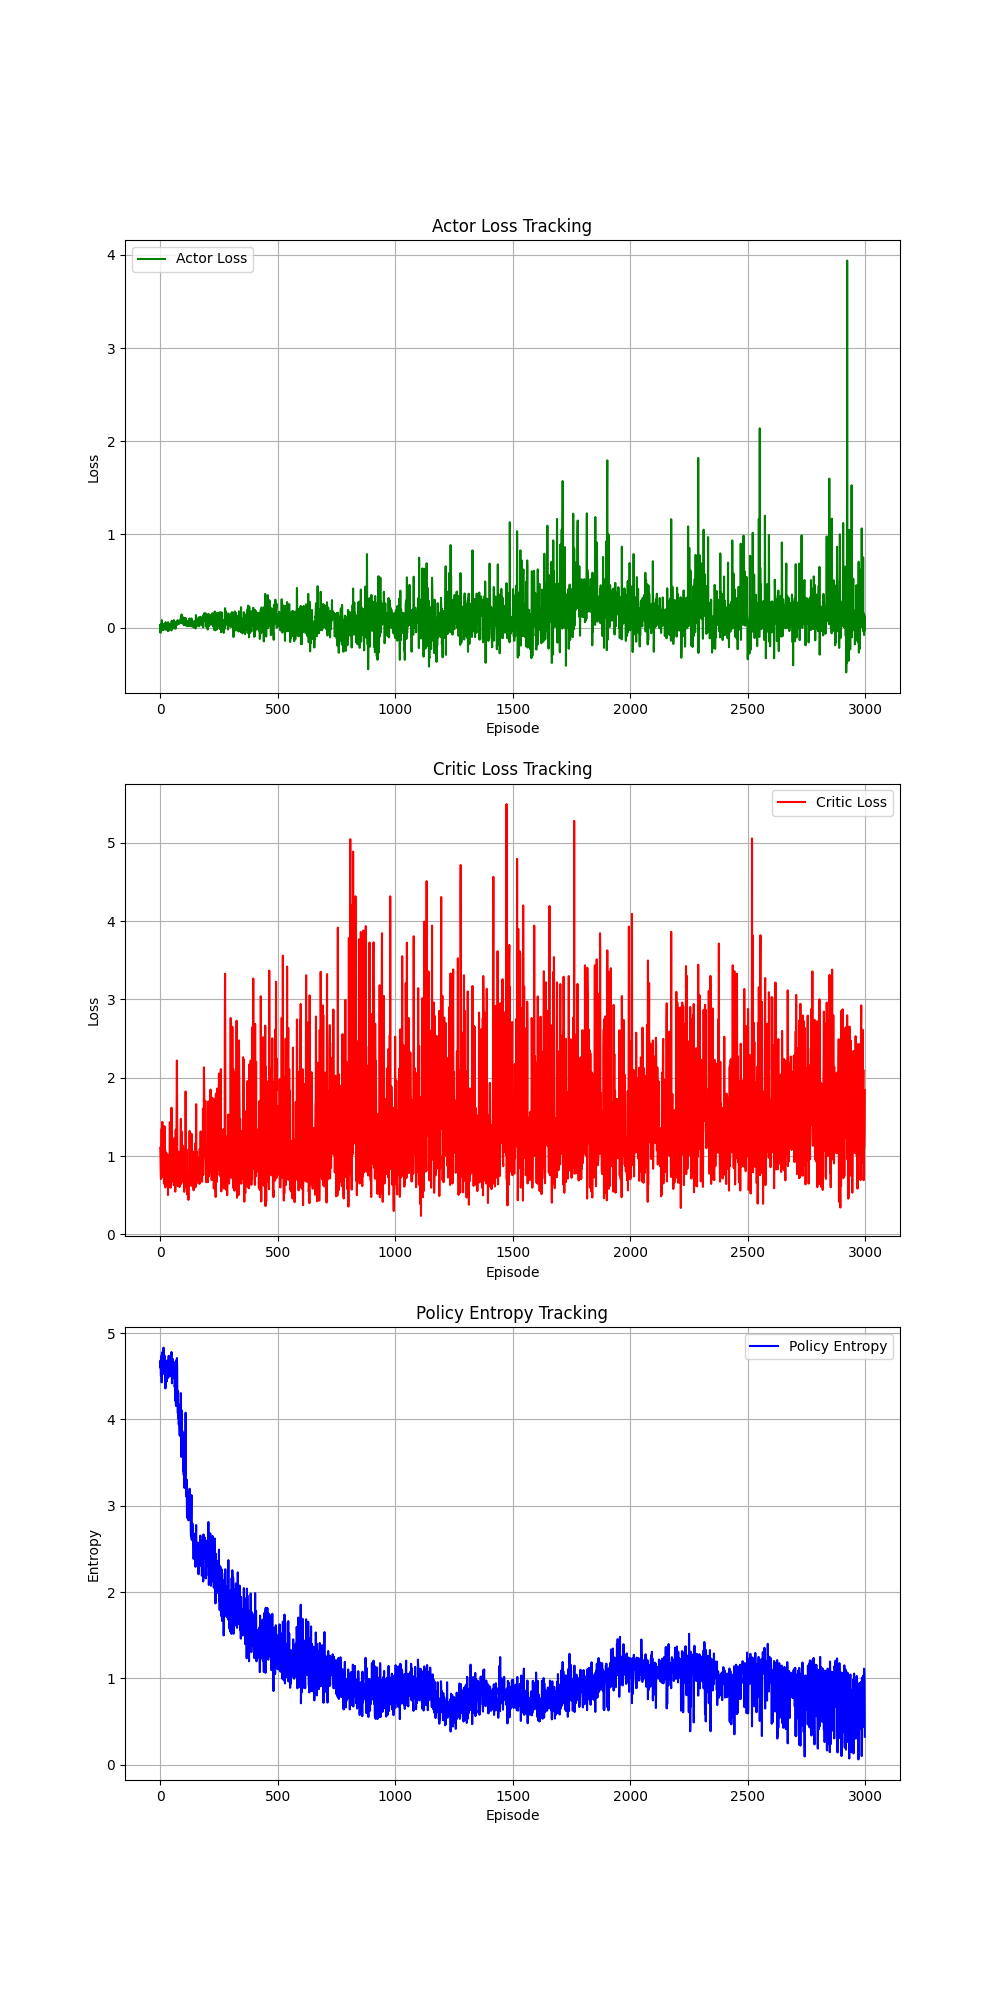
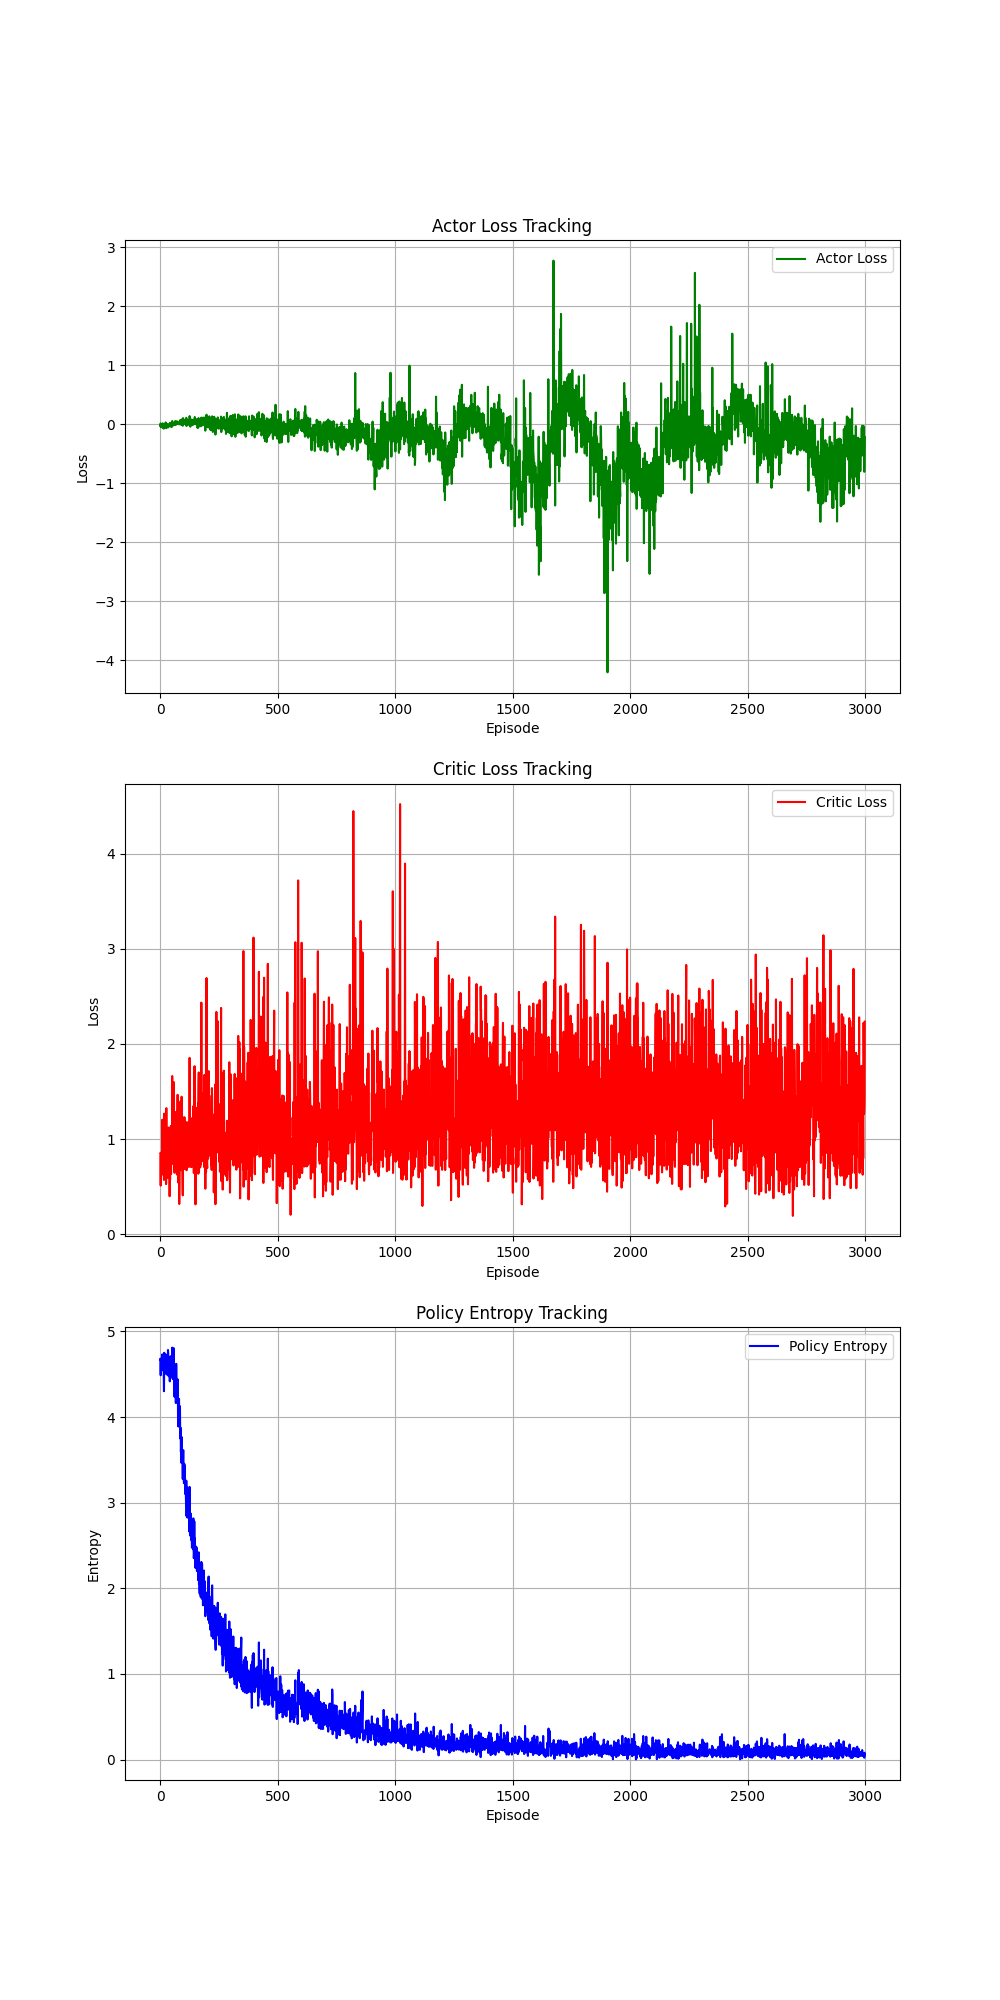
``` feat(gobang): 更新模型检查点并修复训练算法中的关键错误
- 更新model_loader.py中使用的模型检查点从model_299_10.pth到model_2999_12.pth
- 更新opponent_loader.py中使用的对手模型检查点从model_2999_11.pth到model_2999.pth
- 在submission.py中修复三个关键错误：
  1. 修复贝尔曼方程中的目标Q值计算，添加.detach()防止梯度传播
  2. 修正策略梯度更新，避免梯度传播到QS值
  3. 改进Actor-Critic分离优化流程，确保正确的反向传播和参数更新
- 更新utils.py中保存的检查点文件名以匹配新的版本编号
- 更新损失跟踪图表以反映训练改进效果
```

diff --git a/Final-Project/gobang/submission.py b/Final-Project/gobang/submission.py
@@ -321,10 +321,11 @@ class GobangModel(nn.Module):
         """
 
         # 目标 q 值和 critic 损失
-        targets = rewards + gamma * next_qs
+        # 修复错误1: 正确的贝尔曼方程用于计算目标Q值
+        targets = rewards + gamma * next_qs.detach()
         q_clip = 100.0         # 可调
         targets = torch.clamp(targets, -q_clip, q_clip)
-        critic_loss = nn.SmoothL1Loss()(qs, targets)
+        critic_loss = nn.SmoothL1Loss()(qs, targets.detach())
 
         # 计算动作索引（支持 torch 张量或 numpy）
         if isinstance(actions, torch.Tensor):
@@ -337,20 +338,21 @@ class GobangModel(nn.Module):
         aimed_policy = policy[torch.arange(indices.size(0), device=device), indices]
 
         # actor loss: 原始策略梯度目标（未加入熵正则）
-        actor_loss = -torch.mean(torch.log(aimed_policy + eps) * qs.clone().detach())
+        # 修复错误2: 使用正确的策略梯度更新，避免梯度传播到QS
+        actor_loss = -torch.mean(torch.log(aimed_policy + eps) * qs.detach())
 
-        # Bug3修复：分开优化Actor和Critic，确保step()调用
-        # 优化Actor
-        self.actor.optimizer.zero_grad()
-        actor_loss.backward(retain_graph=True)
-        torch.nn.utils.clip_grad_norm_(self.actor.parameters(), max_norm=1.0) # 防止梯度爆炸
-        self.actor.optimizer.step()
-
+        # 修复错误3: 分开优化Actor和Critic，确保step()调用
         # 优化Critic
         self.critic.optimizer.zero_grad()
         critic_loss.backward()
         torch.nn.utils.clip_grad_norm_(self.critic.parameters(), max_norm=1.0)
         self.critic.optimizer.step()
+
+        # 优化Actor
+        self.actor.optimizer.zero_grad()
+        actor_loss.backward()
+        torch.nn.utils.clip_grad_norm_(self.actor.parameters(), max_norm=1.0)
+        self.actor.optimizer.step()
 
         return actor_loss, critic_loss
 

diff --git a/Final-Project/gobang/utils.py b/Final-Project/gobang/utils.py
@@ -367,7 +367,7 @@ def train_model(model, num_episodes=1000, checkpoint=1000, gamma=0.5):
                 'dropout': float(getattr(model.actor, 'dropout', None)) if getattr(model.actor, 'dropout', None) is not None else None,
             }
             ckpt = {'arch': arch, 'state_dict': model.state_dict()}
-            torch.save(ckpt, f"checkpoints/model_{_}_11.pth")
+            torch.save(ckpt, f"checkpoints/model_{_}_12.pth")
 
 
 __all__ = ['_position_to_index', '_index_to_position', '_sample_response', 'train_model',

diff --git a/Final-Project/gobang/model_loader.py b/Final-Project/gobang/model_loader.py
@@ -16,7 +16,7 @@ bound = 5
 def get_model():
     from submission import GobangModel
     device = torch.device("cuda" if torch.cuda.is_available() else "cpu")
-    ckpt_path = os.path.join(os.path.dirname(__file__), 'checkpoints', 'model_2999_10.pth')
+    ckpt_path = os.path.join(os.path.dirname(__file__), 'checkpoints', 'model_2999_12.pth')
 
     if not os.path.exists(ckpt_path):
         print(f"Warning: checkpoint not found at {ckpt_path}. Returning default model (no weights).")

diff --git a/Final-Project/gobang/opponent_loader.py b/Final-Project/gobang/opponent_loader.py
@@ -14,7 +14,7 @@ bound = 5
 
 def get_opponent():
     import os
-    ckpt_path = os.path.join(os.path.dirname(__file__), 'checkpoints', 'model_2999_11.pth')
+    ckpt_path = os.path.join(os.path.dirname(__file__), 'checkpoints', 'model_2999.pth')
 
     if os.path.exists(ckpt_path):
         from submission import GobangModel
